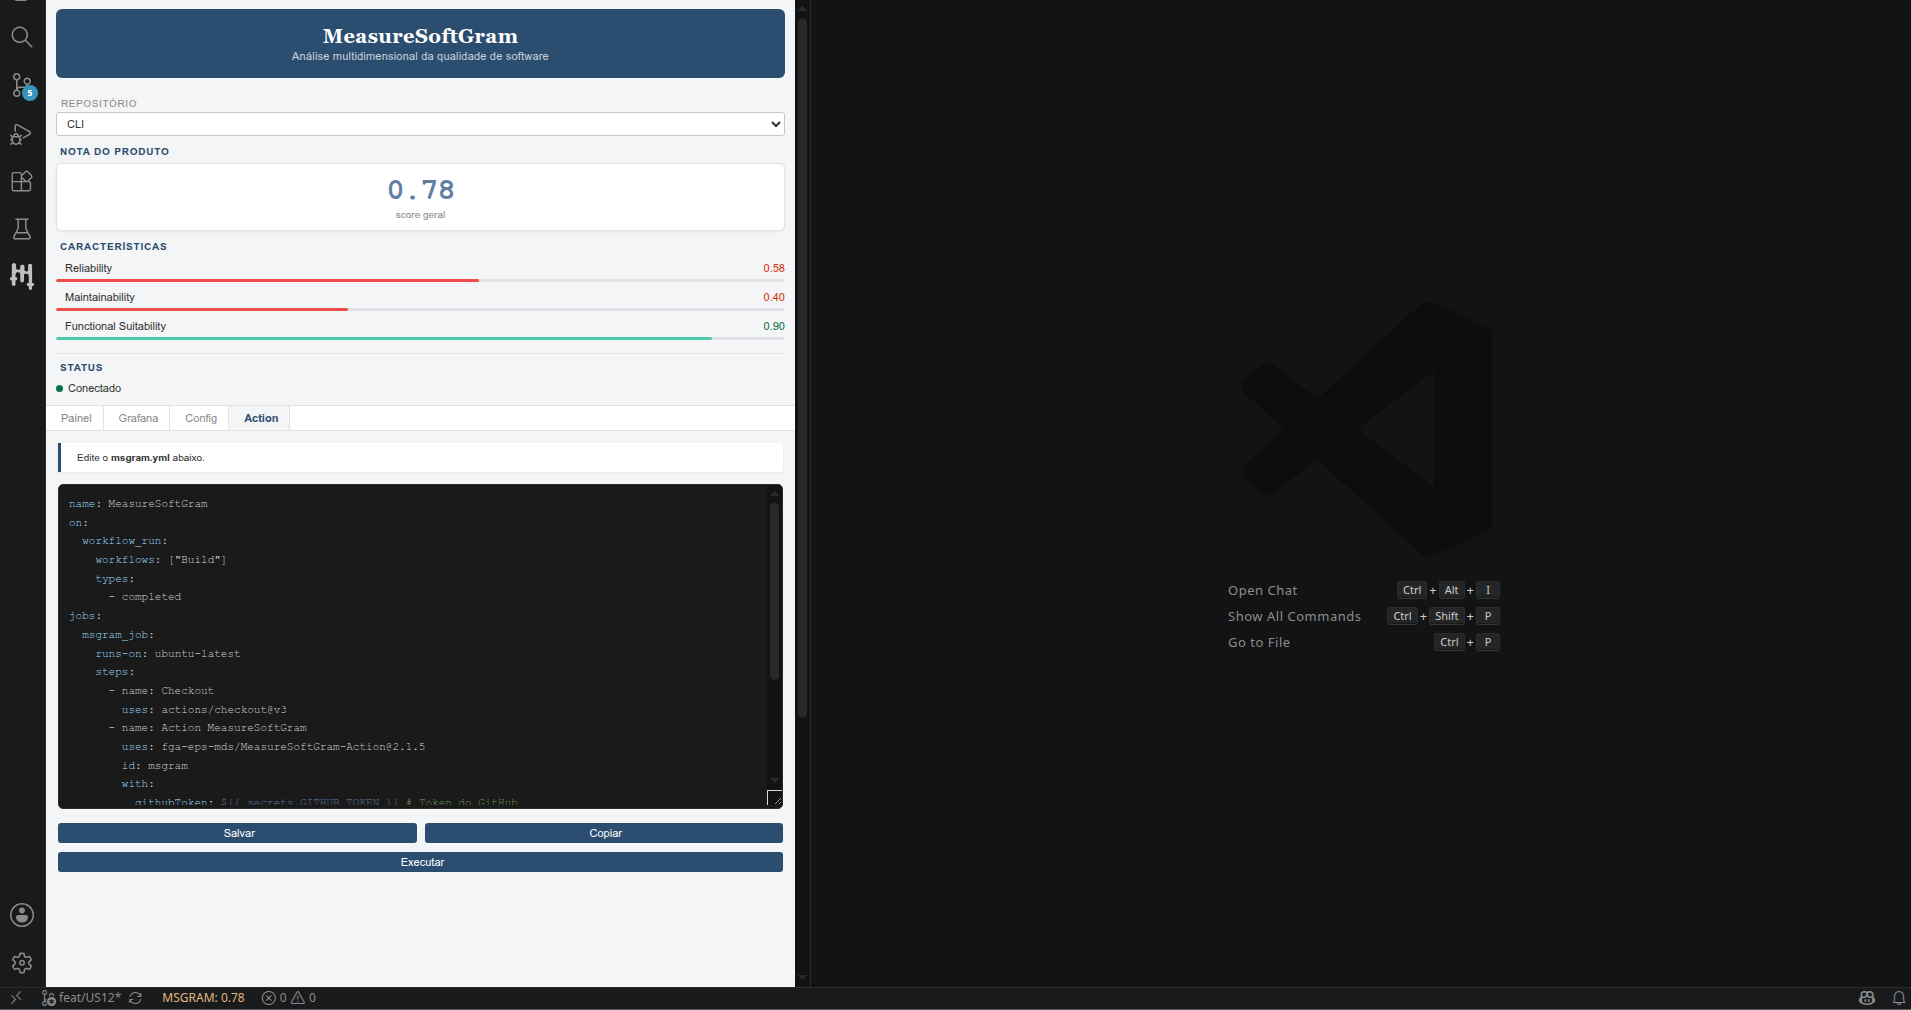
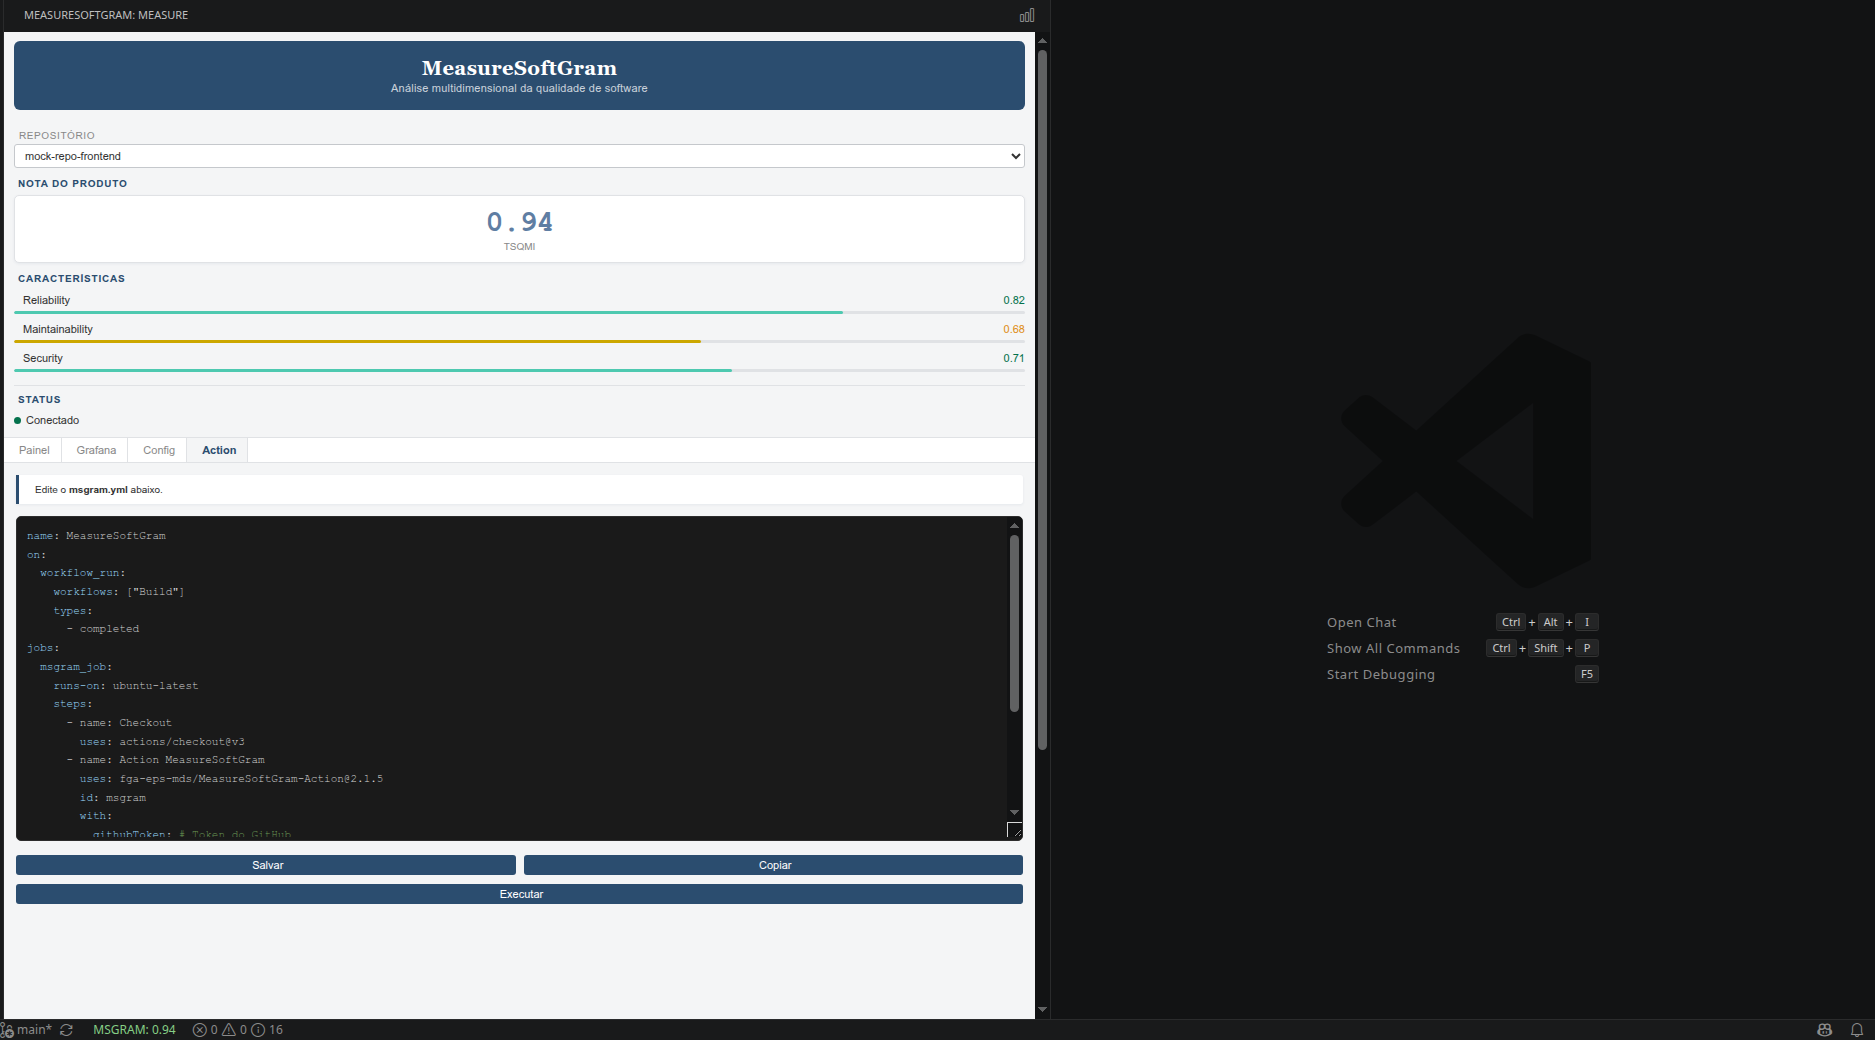
fix: atualiza tsqmi

diff --git a/webview-ui/src/components/DashboardView.tsx b/webview-ui/src/components/DashboardView.tsx
@@ -107,7 +107,7 @@ export const DashboardView: React.FC<DashboardViewProps> = ({
                         {scoreData ? score.toFixed(2) : '—'}
                     </div>
                     <div className="hero-right">
-                        <div className="hero-lbl">Nota geral do produto</div>
+                        <div className="hero-lbl">TSQMI do produto</div>
                         <div className="hero-bar">
                             <div
                                 className="hero-fill"

diff --git a/webview-ui/src/components/Sidebar.tsx b/webview-ui/src/components/Sidebar.tsx
@@ -149,7 +149,7 @@ export const Sidebar: React.FC<SidebarProps> = ({
                         )}
                     </div>
                     <div className="score-lbl" style={{fontFamily: 'Roboto, sans-serif', fontSize: 10, color: '#888'}}>
-                        score geral
+                        TSQMI
                     </div>
                 </div>
 
